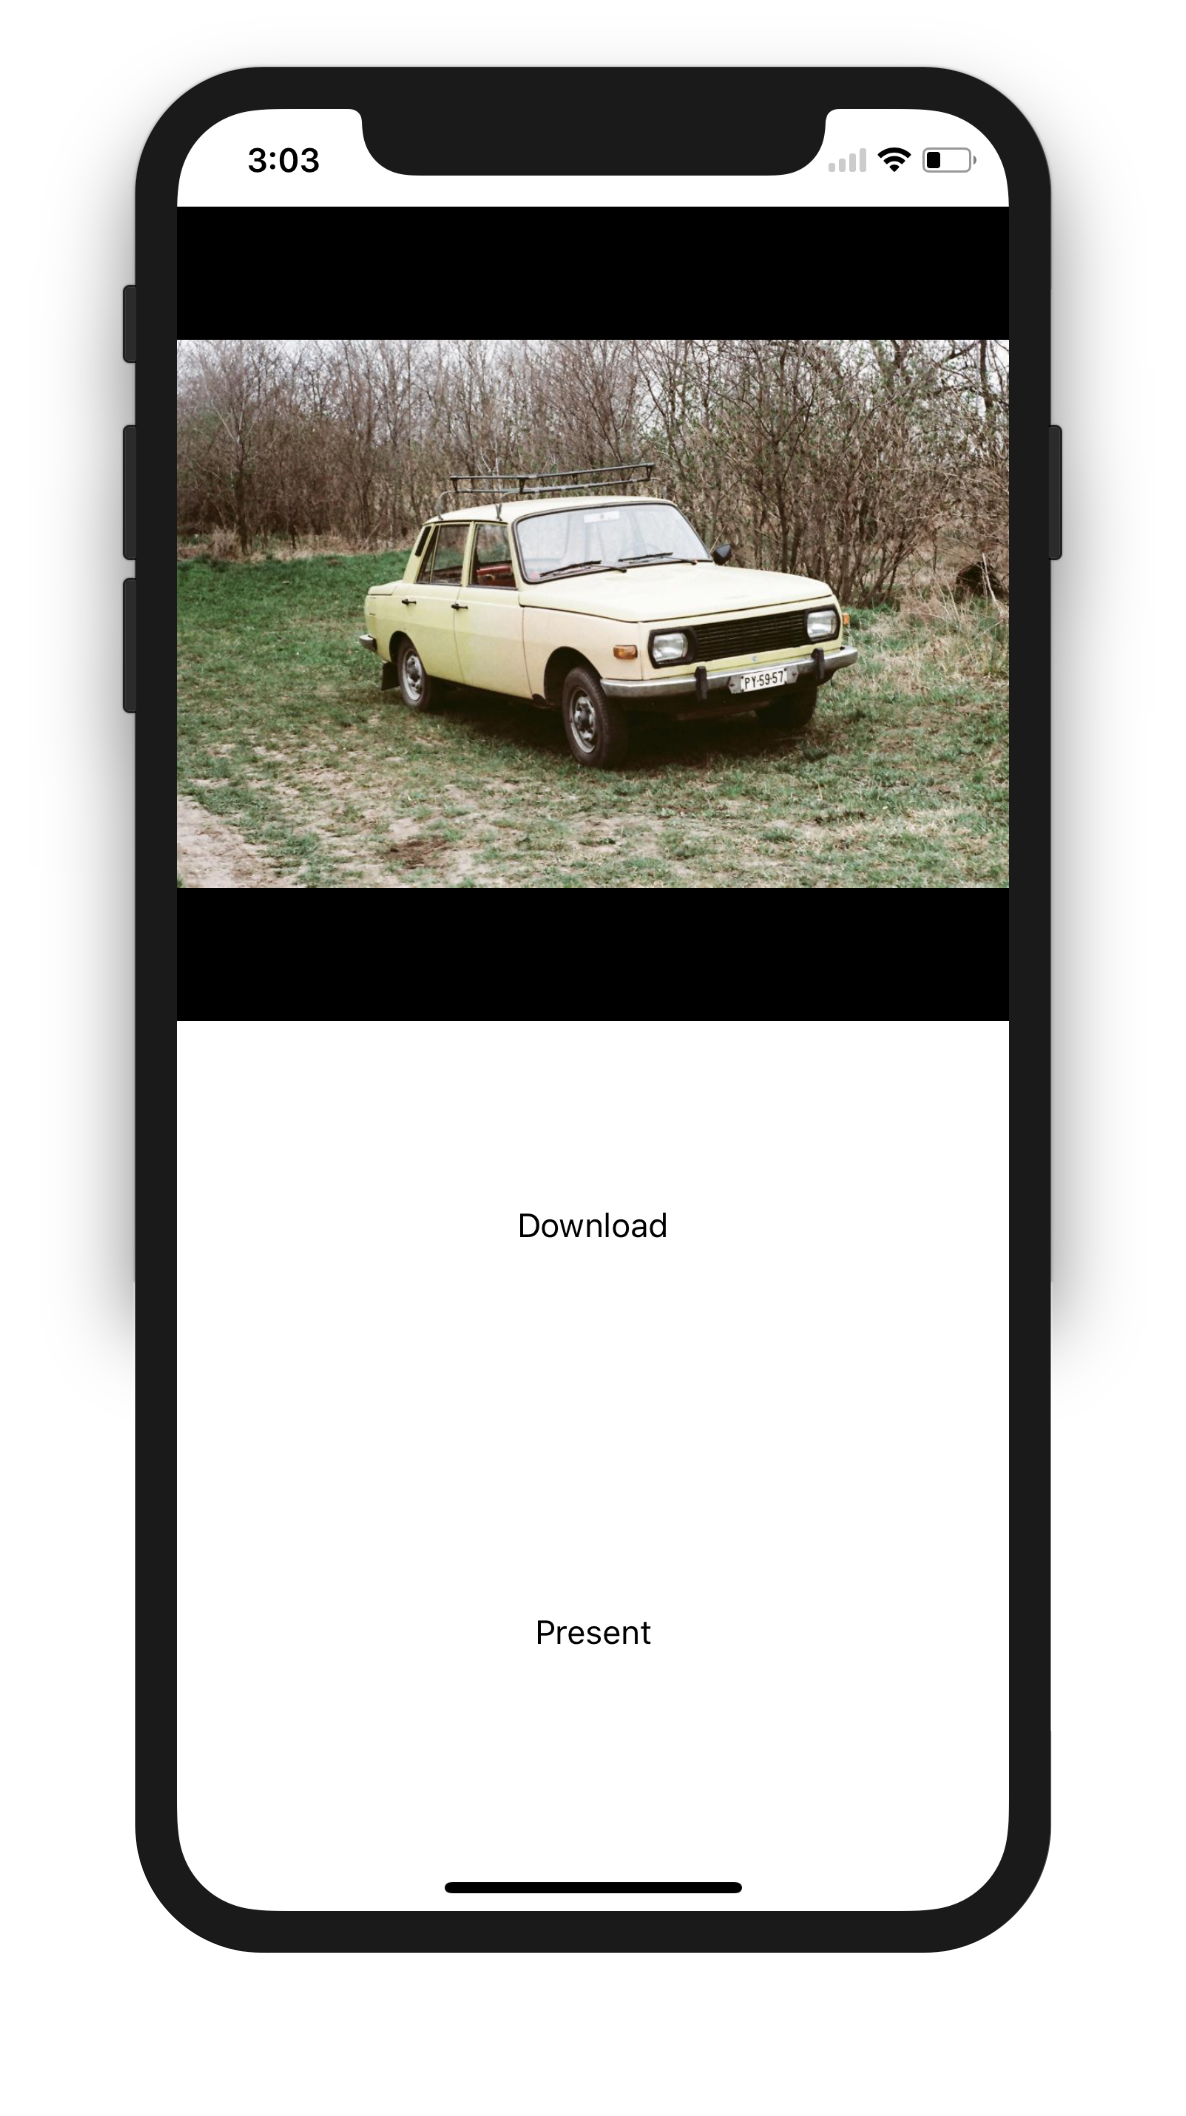
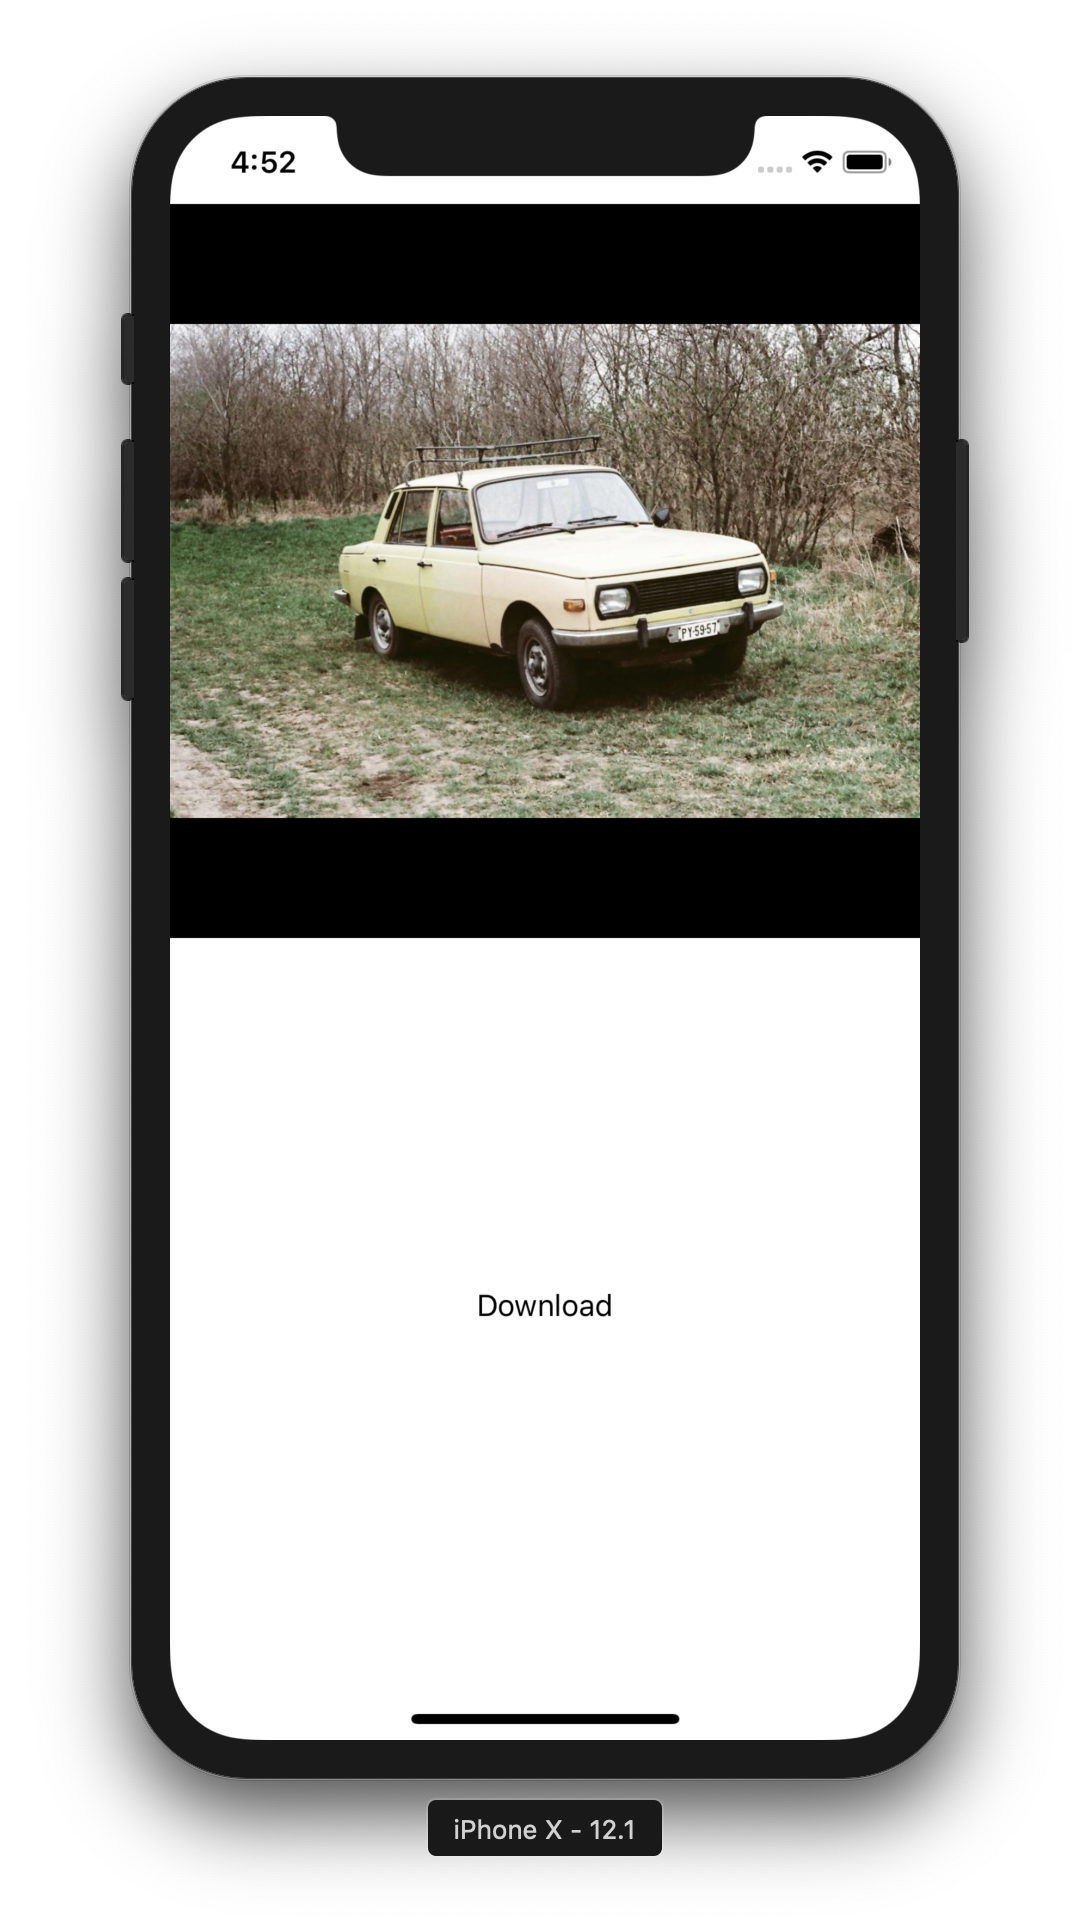
Updates Labor11 with iOS 12 and Xcode 10. (#36)
* Updates sections

* Updates labor 11

* Deletes unnecessary button from screen

diff --git a/labor_11/labor_11.md b/labor_11/labor_11.md
@@ -1,21 +1,15 @@
 # `iOS` alapú szoftverfejlesztés - Labor `11`
 
-## A laborsegédletet összeállította
-* Kelényi Imre - imre.kelenyi@aut.bme.hu
-* Kántor Tibor - tibor.kantor@autsoft.hu
-* Blázovics László - blazovics.laszlo@aut.bme.hu
-* Krassay Péter - peter.krassay@autsoft.hu
-* Szücs Zoltán - szucs.zoltan@autsoft.hu
-
 ## A labor témája
 
 * [PictureDownload](#picture-download)
     * [`ViewController` inicializálása kódból](#viewcontroller-inicializalasa-kodbol)
     * [Alamofire](#alamofire)
+* [Önálló feladat](#onallo-feladat)
     * [ECSlidingViewController](#ecslidingviewcontroller)
     * [MBProgressHUD](#mbprogresshud)
     * [CocoaPods](#cocoapods)
-* [Önálló feladat](#onallo-feladat)
+* [Szorgalmi feladat](#szorgalmi-feladat)
 
 ## PictureDownload <a id="picture-download"></a>
 
@@ -77,11 +71,6 @@ override func viewDidLoad() {
   downloadButton.setTitleColor(.black, for: .normal)
   downloadButton.addTarget(self, action: #selector(ViewController.downloadFile), for: .touchUpInside)
   stackView.addArrangedSubview(downloadButton)
-
-  let displayButton = UIButton(type: .system)
-  displayButton.setTitle("Present", for: .normal)
-  displayButton.setTitleColor(.black, for: .normal)
-  stackView.addArrangedSubview(displayButton)
 }
 
 // MARK: - Actions
@@ -93,18 +82,17 @@ override func viewDidLoad() {
 > Végül adjuk hozzá az alábbi kódrészletet az `AppDelegate.swift` `application(_:didFinishLaunchingWithOptions:)` metódusához!
 
 ```swift
-func application(_ application: UIApplication, didFinishLaunchingWithOptions launchOptions: [UIApplicationLaunchOptionsKey: Any]?) -> Bool {
+func application(_ application: UIApplication, didFinishLaunchingWithOptions launchOptions: [UIApplication.LaunchOptionsKey: Any]?) -> Bool {
+    window = UIWindow(frame: UIScreen.main.bounds)
 
-  window = UIWindow(frame: UIScreen.main.bounds)
+    let viewController = ViewController()
+    viewController.imageUrl = URL(string: "http://www.fortepan.hu/_photo/display/28268.jpg")
+    viewController.contentUrl = URL(string: "http://www.fortepan.hu/_photo/download/fortepan_28268.jpg")
 
-  let viewController = ViewController()
-  viewController.imageUrl = URL(string: "http://www.fortepan.hu/_photo/display/28268.jpg")
-  viewController.contentUrl = URL(string: "http://www.fortepan.hu/_photo/download/fortepan_28268.jpg")
+    window?.rootViewController = viewController
+    window?.makeKeyAndVisible()
 
-  window?.rootViewController = viewController
-  window?.makeKeyAndVisible()
-
-  return true
+    return true
 }
 ```
 
@@ -124,7 +112,9 @@ Látható, hogy minden UI elem megjelenik, de a kép nem töltődik be.
 <!--  -->
 > Ezután adjuk hozzá `Embedded Binary`-ként a megfelelő `Alamofire.framework`öt a `PictureDownload` `Target`hez! Ehhez menjünk el a projektbeállításokhoz és a megfelelő helyen nyomjuk meg a `+` gombot, majd válasszuk ki az `iOS`-re generált *framework*öt.
 
-<img src="img/03_alamofire_embedded_binary.png" alt="03" style="width: 75%;" />
+<img src="img/03a_alamofire_embedded_binary.png" alt="03" style="width: 75%;" />
+
+<img src="img/03b_alamofire_embedded_binary.png" alt="03" style="width: 75%;" />
 
 > Ezt követően a `ViewController.swift`ben importáljuk az `Alamofire`-t és írjuk felül a `viewWillAppear(_:)` metódust.
 
@@ -190,6 +180,8 @@ Ha ezt elfelejtjük megtenni, akkor a már jól ismert hibaüzenetet kapjuk.
 }
 ```
 
+## Önálló feladat <a id="onallo-feladat"></a>
+
 ### ECSlidingViewController <a id="ecslidingviewcontroller"></a>
 
 Most, hogy van már rendes tartalmunk, adjunk hozzá az alkalmazáshoz egy menüt!
@@ -198,7 +190,7 @@ Most, hogy van már rendes tartalmunk, adjunk hozzá az alkalmazáshoz egy menü
 ) thrid-party komponenst a linkről!
 
 <!--  -->
-> Csomagoljuk ki a fájlt és keressük meg az `ECSlidingViewController` mappát, majd az egész mappát adjuk hozzá a projekthez! Fontos, hogy a `Copy items if needed` és a `PictureDownload` *target* is legyen bepipálva!
+> Csomagoljuk ki a fájlt és keressük meg az `ECSlidingViewController` mappát, majd az egész mappát adjuk hozzá a projekthez! Fontos, hogy a `Copy items if needed`, `Create groups` és a `PictureDownload` *target* is legyen bepipálva!
 
 <img src="img/06_add_sliding_view.png" alt="06" style="width: 66%;"/>
 
@@ -435,11 +427,19 @@ import Kingfisher
     super.viewDidLoad()
 
     ...
-	 if let imageUrl = imageUrl {
+    if let imageUrl = imageUrl {
       imageView.kf.setImage(with: imageUrl)
     }
   }
 ```
 
-## Önálló feladat <a id="onallo-feladat"></a>
+## Szorgalmi feladat <a id="szorgalmi-feladat"></a>
 > Jelenítsük meg a letöltött képet valami kreatív módon!
+
+## A laborsegédletet összeállította
+* Varga Domonkos - varga.domonkos@autsoft.hu
+* Krassay Péter - peter.krassay@autsoft.hu
+* Szücs Zoltán - szucs.zoltan@autsoft.hu
+* Blázovics László - blazovics.laszlo@aut.bme.hu
+* Kántor Tibor - tibor.kantor@autsoft.hu
+* Kelényi Imre - imre.kelenyi@aut.bme.hu
